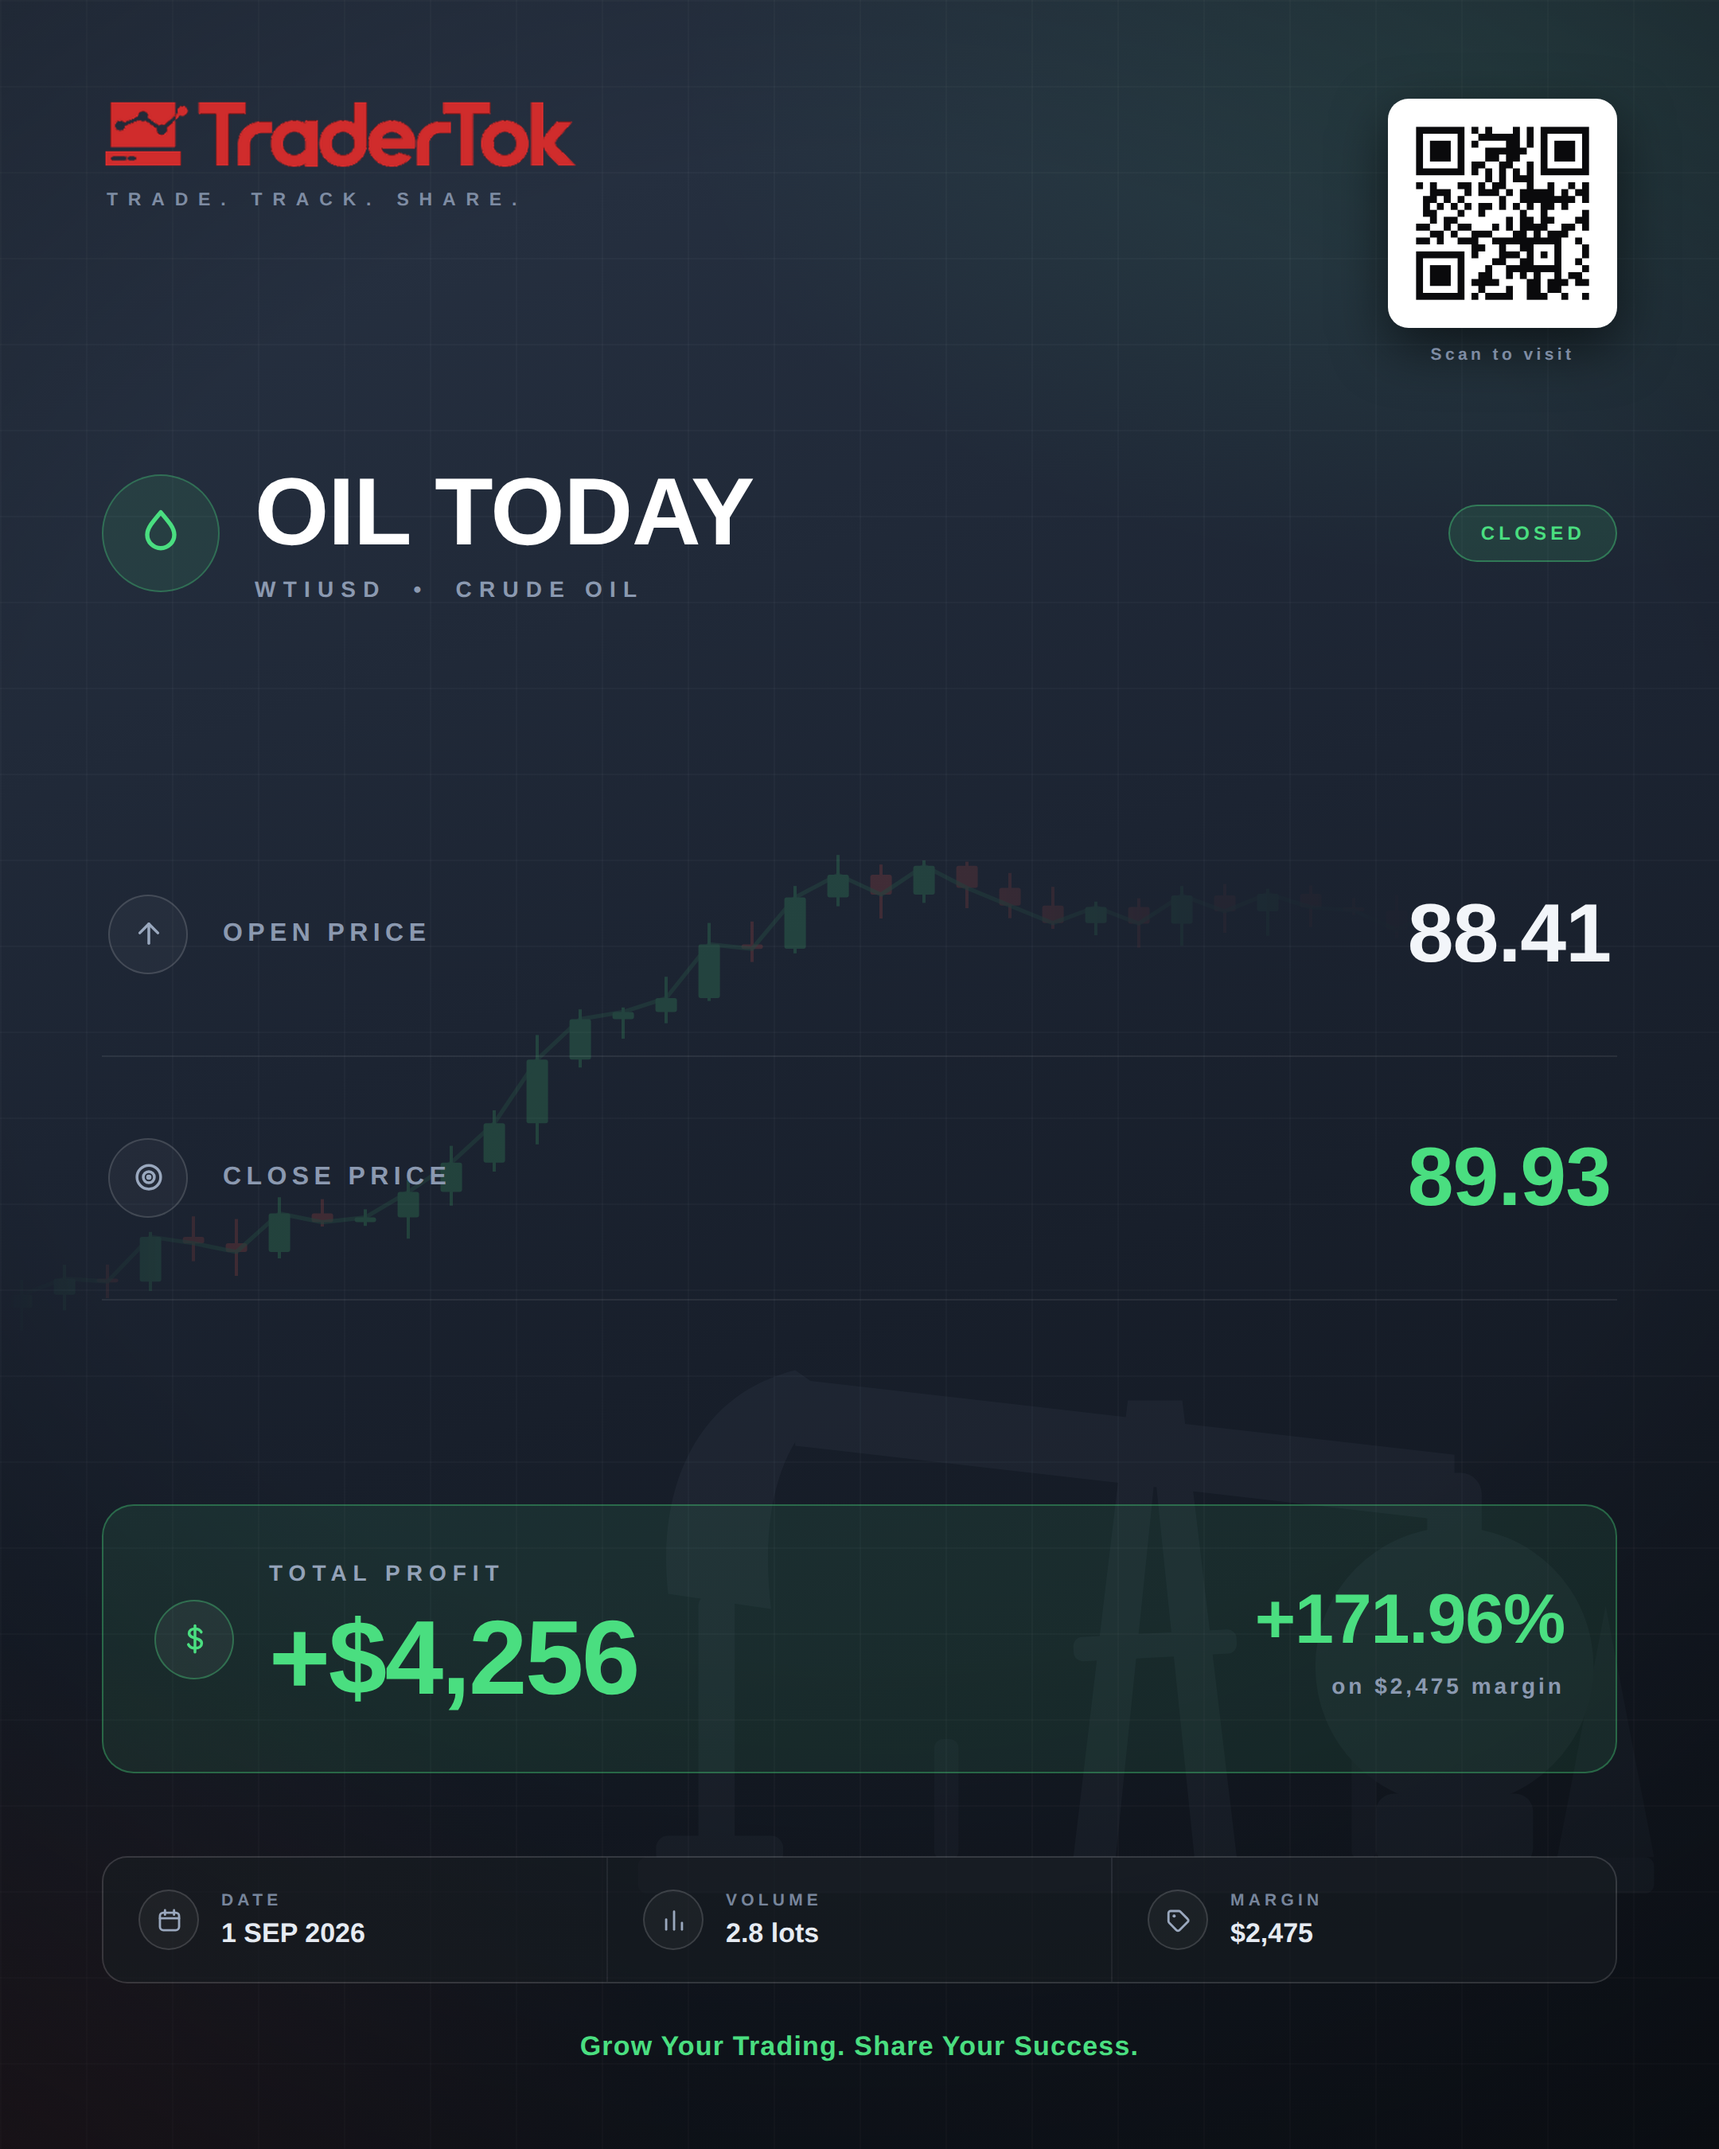
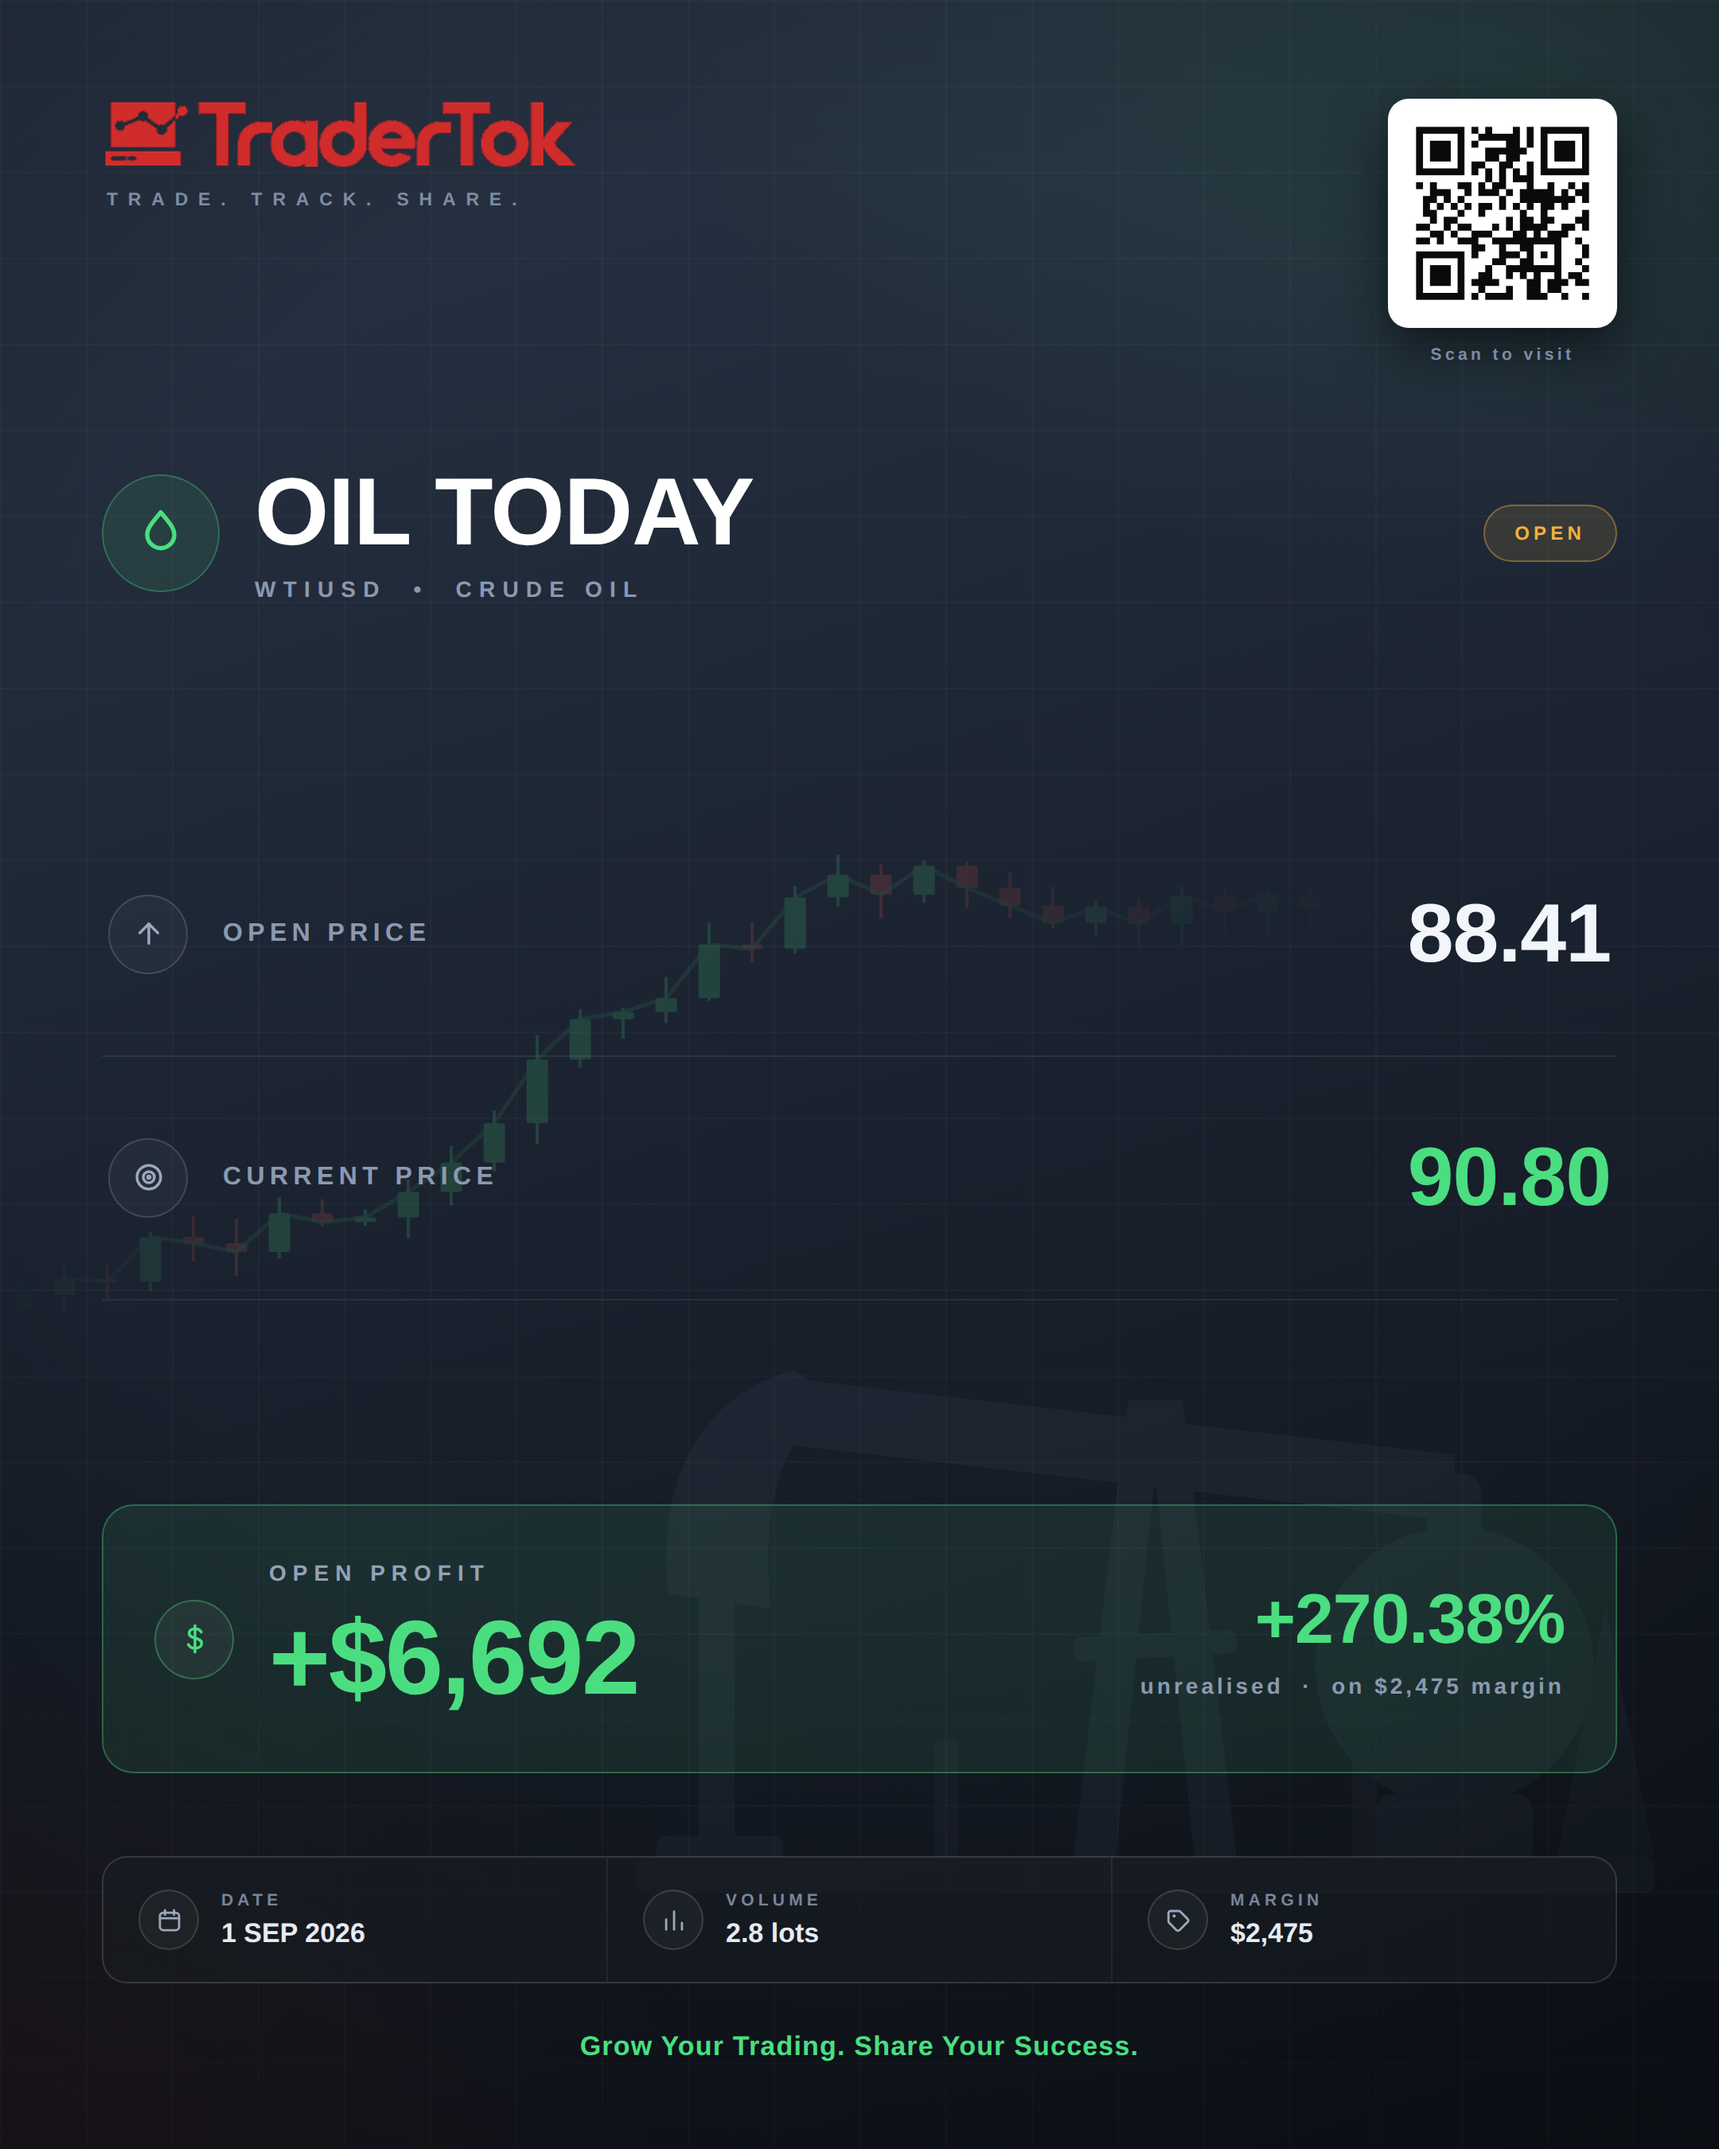
Treat oil as open and mark it to market at 90.80
The oil position has not closed; it was recorded as closed at 89.93 in
error. Both the sheet and the card now distinguish a live mark from an
exit.

Trades take a `current` price alongside `closed`. On the sheet the column
becomes CLOSED / NOW, live marks print grey, and the totals split into
OPEN P/L and CLOSED THIS CYCLE so floating money is never counted as
realised. On the card the second row reads CURRENT PRICE and the panel
reads OPEN PROFIT, labelled unrealised, with the chip left amber.

Oil is +$6,692 (+2.81R) floating at 90.80, against +$7,812 if it reaches
the 91.20 target.

Claude-Session: https://claude.ai/code/session_01Fam1anDvbAYtoP9HG3kncU

diff --git a/trading/card/trader-tok-card.html b/trading/card/trader-tok-card.html
@@ -37,8 +37,8 @@ body{width:1080px;height:1350px;background:#0A0D13;overflow:hidden;
 .h1{font-size:60px;font-weight:700;color:#fff;letter-spacing:-.6px;line-height:1.04}
 .h2{font-size:14px;letter-spacing:4.6px;color:#8B99B0;font-weight:700;margin-top:9px}
 .chip{margin-left:auto;font-size:12px;font-weight:700;letter-spacing:2.6px;
- padding:10px 19px;border-radius:999px;color:#4ADE80;
- background:rgba(74,222,128,.12);border:1.5px solid rgba(74,222,128,.38)}
+ padding:10px 19px;border-radius:999px;color:#F2B23E;
+ background:rgba(242,178,62,.12);border:1.5px solid rgba(242,178,62,.38)}
 
 .rows{margin-top:56px;flex:1;display:flex;flex-direction:column;justify-content:center}
 .row{display:flex;align-items:center;gap:22px;padding:46px 4px;
@@ -107,14 +107,14 @@ body{width:1080px;height:1350px;background:#0A0D13;overflow:hidden;
         stroke="currentColor" stroke-width="1.9" stroke-linejoin="round"><path d="M12 2.7c3.6 4.2 6 7 6 9.9a6 6 0 1 1-12 0c0-2.9 2.4-5.7 6-9.9z"/></svg></div>
       <div><div class="h1">OIL TODAY</div>
            <div class="h2">WTIUSD &nbsp;&bull;&nbsp; CRUDE OIL</div></div>
-      <div class="chip">CLOSED</div>
+      <div class="chip">OPEN</div>
     </div>
 
-    <div class="rows"><div class="row"><div class="ic mute"><svg viewBox="0 0 24 24" width="21" height="21" fill="none" stroke="currentColor" stroke-width="2" stroke-linecap="round" stroke-linejoin="round"><path d="M12 19V5"/><path d="M5.5 11.5 12 5l6.5 6.5"/></svg></div><div class="rl">OPEN PRICE</div><div class="rv val">88.41</div></div><div class="row"><div class="ic mute"><svg viewBox="0 0 24 24" width="21" height="21" fill="none" stroke="currentColor" stroke-width="2" stroke-linecap="round" stroke-linejoin="round"><circle cx="12" cy="12" r="8.5"/><circle cx="12" cy="12" r="4"/><circle cx="12" cy="12" r=".9" fill="currentColor"/></svg></div><div class="rl">CLOSE PRICE</div><div class="rv good">89.93</div></div></div>
+    <div class="rows"><div class="row"><div class="ic mute"><svg viewBox="0 0 24 24" width="21" height="21" fill="none" stroke="currentColor" stroke-width="2" stroke-linecap="round" stroke-linejoin="round"><path d="M12 19V5"/><path d="M5.5 11.5 12 5l6.5 6.5"/></svg></div><div class="rl">OPEN PRICE</div><div class="rv val">88.41</div></div><div class="row"><div class="ic mute"><svg viewBox="0 0 24 24" width="21" height="21" fill="none" stroke="currentColor" stroke-width="2" stroke-linecap="round" stroke-linejoin="round"><circle cx="12" cy="12" r="8.5"/><circle cx="12" cy="12" r="4"/><circle cx="12" cy="12" r=".9" fill="currentColor"/></svg></div><div class="rl">CURRENT PRICE</div><div class="rv good">90.80</div></div></div>
 
     <div class="hl"><div class="ic mute"><svg viewBox="0 0 24 24" width="21" height="21" fill="none" stroke="currentColor" stroke-width="2" stroke-linecap="round" stroke-linejoin="round"><path d="M12 2.5v19"/><path d="M16.5 7.2c-.7-1.5-2.4-2.4-4.5-2.4-2.5 0-4.2 1.3-4.2 3.2 0 4.6 9 2.5 9 7.3 0 2-1.9 3.4-4.6 3.4-2.4 0-4.2-1-4.9-2.6"/></svg></div>
-      <div><div class="hk">TOTAL PROFIT</div><div class="hv">+$4,256</div></div>
-      <div class="hs">+171.96%<span class="hn">on $2,475 margin</span></div>
+      <div><div class="hk">OPEN PROFIT</div><div class="hv">+$6,692</div></div>
+      <div class="hs">+270.38%<span class="hn">unrealised &nbsp;·&nbsp; on $2,475 margin</span></div>
     </div>
 
     <div class="foot"><div class="ft"><div class="ic tiny"><svg viewBox="0 0 24 24" width="21" height="21" fill="none" stroke="currentColor" stroke-width="2" stroke-linecap="round" stroke-linejoin="round"><rect x="3.5" y="5" width="17" height="15.5" rx="3"/><path d="M8 2.8v4M16 2.8v4M3.5 10h17"/></svg></div><div><div class="fk">DATE</div><div class="fv">1 SEP 2026</div></div></div><div class="ft"><div class="ic tiny"><svg viewBox="0 0 24 24" width="21" height="21" fill="none" stroke="currentColor" stroke-width="2" stroke-linecap="round" stroke-linejoin="round"><path d="M5 20V11"/><path d="M12 20V4"/><path d="M19 20v-6"/></svg></div><div><div class="fk">VOLUME</div><div class="fv">2.8 lots</div></div></div><div class="ft"><div class="ic tiny"><svg viewBox="0 0 24 24" width="21" height="21" fill="none" stroke="currentColor" stroke-width="2" stroke-linecap="round" stroke-linejoin="round"><path d="M20.5 12.7 12.8 20.4a2 2 0 0 1-2.8 0l-6.4-6.4a2 2 0 0 1-.6-1.4V5.5a2 2 0 0 1 2-2h7.1a2 2 0 0 1 1.4.6l6.4 6.4a2 2 0 0 1 .6 2.2z"/><circle cx="8" cy="8" r="1.4" fill="currentColor" stroke="none"/></svg></div><div><div class="fk">MARGIN</div><div class="fv">$2,475</div></div></div></div>

diff --git a/trading/generate_trade_boxes.py b/trading/generate_trade_boxes.py
@@ -32,7 +32,7 @@ ASSETS = [("XAUUSD", "GOLD", 100.0), ("WTIUSD", "OIL", 1000.0),
 TRADES = {
     "WTIUSD": dict(side="BUY", entry=88.41, volume=2.8, margin=2475.0,
                    stop=87.56, target=91.20, moved_to_entry=True,
-                   closed=89.93),
+                   current=90.80),          # still open - mark-to-market
     "XAGUSD": dict(side="SELL", entry=64.31, volume=0.66, stop=65.00,
                    target=62.00, leverage=100),
 }
@@ -84,7 +84,9 @@ def row(asset, name, vpl):
     side = t.get("side")
     entry, stop = t.get("entry"), t.get("stop")
     target, vol = t.get("target"), t.get("volume")
-    closed = t.get("closed")
+    closed, current = t.get("closed"), t.get("current")
+    mark = closed if closed is not None else current
+    floating = closed is None and current is not None
     short = side == "SELL"
 
     margin = t.get("margin")
@@ -96,8 +98,8 @@ def row(asset, name, vpl):
         risk = abs(entry - stop) * vol * vpl
         if target is not None:
             rr = abs(target - entry) / abs(entry - stop)
-        if closed is not None:
-            res_cash = (entry - closed if short else closed - entry) * vol * vpl
+        if mark is not None:
+            res_cash = (entry - mark if short else mark - entry) * vol * vpl
             res_r = res_cash / risk
 
     col = INK
@@ -116,10 +118,11 @@ def row(asset, name, vpl):
         cellp(usd(risk) if risk is not None else ""),
         cellp("1 : %.2f" % rr if rr is not None else "", col=GREEN),
         cellp("YES" if moved else ("" if moved is None else "NO")),
-        cellp("%.2f" % closed if closed is not None else ""),
+        cellp("%.2f" % mark if mark is not None else "",
+              col=SLATE if floating else INK),
         cellp(usd(res_cash, sign=True) if res_cash is not None else "", col=col),
         cellp("%+.2fR" % res_r if res_r is not None else "", col=col),
-    ], res_cash, res_r
+    ], res_cash, res_r, floating
 
 
 # ------------------------------------------------------------------- build --
@@ -140,27 +143,33 @@ story.append(hr)
 story.append(Spacer(1, 14))
 
 HEAD = ["ASSET", "DIR", "ENTRY", "VOLUME", "MARGIN", "STOP LOSS", "TAKE PROFIT",
-        "RISK (1R)", "R : R", "SL AT ENTRY", "CLOSED AT", "RESULT ($)",
+        "RISK (1R)", "R : R", "SL AT ENTRY", "CLOSED / NOW", "RESULT ($)",
         "RESULT (R)"]
 data = [[Paragraph(h, TH) for h in HEAD]]
-tot_cash = tot_r = 0.0
+real_cash = real_r = flt_cash = flt_r = 0.0
 for a, n, vpl in ASSETS:
-    cells, rc, rr_ = row(a, n, vpl)
+    cells, rc, rr_, flt = row(a, n, vpl)
     data.append(cells)
-    if rc is not None:
-        tot_cash += rc
-        tot_r += rr_
+    if rc is None:
+        continue
+    if flt:
+        flt_cash += rc; flt_r += rr_
+    else:
+        real_cash += rc; real_r += rr_
 
-tcol = GREEN if tot_cash > 0 else (RED if tot_cash < 0 else SLATE)
-data.append([Paragraph("<font size='9'><b>CYCLE TOTAL</b></font>", TD)]
+def total_row(label, cash, r, muted=False):
+    c = SLATE if muted else (GREEN if cash > 0 else (RED if cash < 0 else SLATE))
+    return ([Paragraph("<font size='8.6'><b>%s</b></font>" % label, TD)]
             + [Paragraph("", TD)] * 10
-            + [cellp(usd(tot_cash, sign=True), col=tcol),
-               cellp("%+.2fR" % tot_r, col=tcol)])
+            + [cellp(usd(cash, sign=True), col=c), cellp("%+.2fR" % r, col=c)])
+
+data.append(total_row("OPEN P/L", flt_cash, flt_r, muted=False))
+data.append(total_row("CLOSED THIS CYCLE", real_cash, real_r))
 
 W = [72, 40, 52, 50, 56, 56, 60, 60, 54, 58, 56, 68, 0]
 assert len(W) == len(HEAD), (len(W), len(HEAD))
 W[-1] = CW - sum(W[:-1])
-t = Table(data, colWidths=W, rowHeights=[22] + [42] * 5 + [34])
+t = Table(data, colWidths=W, rowHeights=[22] + [42] * 5 + [30, 30])
 t.setStyle(TableStyle([
     ("BACKGROUND", (0, 0), (-1, 0), NAVY),
     ("VALIGN", (0, 0), (-1, -1), "MIDDLE"),
@@ -172,6 +181,10 @@ t.setStyle(TableStyle([
     ("LINEABOVE", (0, 6), (-1, 6), 1.2, NAVY),
 ] + [("BACKGROUND", (0, i), (-1, i), ZEBRA) for i in (2, 4)]))
 story.append(t)
+story.append(Spacer(1, 5))
+story.append(Paragraph(
+    "Prices in <b>CLOSED / NOW</b> shown in grey are live marks on open "
+    "positions, so the result beside them is floating, not realised.", FOOT))
 
 story.append(Spacer(1, 10))
 story.append(Paragraph(

diff --git a/trading/generate_card.py b/trading/generate_card.py
@@ -30,7 +30,8 @@ TRADE = dict(
     side="LONG", leverage=100, value_per_lot=1000.0,
     entry=88.41, volume=2.8, margin=2475.0,
     stop=87.56, target=91.20, moved_to_entry=True,
-    closed=89.93,                    # set to None while the position is open
+    closed=None,                     # exit price once the position is closed
+    current=90.80,                   # live mark while it is still open
     date="1 SEP 2026", time="—",
 )
 
@@ -43,8 +44,11 @@ def derive(t):
     d["risk"] = d["stop_dist"] * t["volume"] * t["value_per_lot"]
     d["reward"] = d["tp_dist"] * t["volume"] * t["value_per_lot"]
     d["rr"] = d["tp_dist"] / d["stop_dist"]
-    if t.get("closed") is not None:
-        d["move"] = (t["closed"] - t["entry"]) * sgn
+    mark = t.get("closed") if t.get("closed") is not None else t.get("current")
+    d["mark"] = mark
+    d["floating"] = t.get("closed") is None and t.get("current") is not None
+    if mark is not None:
+        d["move"] = (mark - t["entry"]) * sgn
         d["pnl"] = d["move"] * t["volume"] * t["value_per_lot"]
         d["pnl_r"] = d["pnl"] / d["risk"]
         d["roi"] = d["pnl"] / t["margin"] * 100.0
@@ -152,10 +156,22 @@ if CLOSED:
     hl_note = "on %s margin" % usd(TRADE["margin"])
     hl_good = good
     status = "CLOSED"
+elif T["floating"]:
+    good = T["pnl"] >= 0
+    rows = [
+        (G_ARROW, "OPEN PRICE", "%.2f" % T["entry"], "", "val"),
+        (G_TARGET, "CURRENT PRICE", "%.2f" % T["mark"], "", "good" if good else "bad"),
+    ]
+    hl_label = "OPEN PROFIT" if good else "OPEN LOSS"
+    hl_big = usd(T["pnl"], sign=True)
+    hl_sub = "%+.2f%%" % T["roi"]
+    hl_note = "unrealised &nbsp;·&nbsp; on %s margin" % usd(TRADE["margin"])
+    hl_good = good
+    status = "OPEN"
 else:
     rows = [
         (G_ARROW, "OPEN PRICE", "%.2f" % T["entry"], "", "val"),
-        (G_TARGET, "CLOSE PRICE", "--", "position still open", "val"),
+        (G_TARGET, "CURRENT PRICE", "--", "no mark supplied", "val"),
     ]
     hl_label = "PROFIT AT TARGET"
     hl_big = usd(T["reward"], sign=True)
